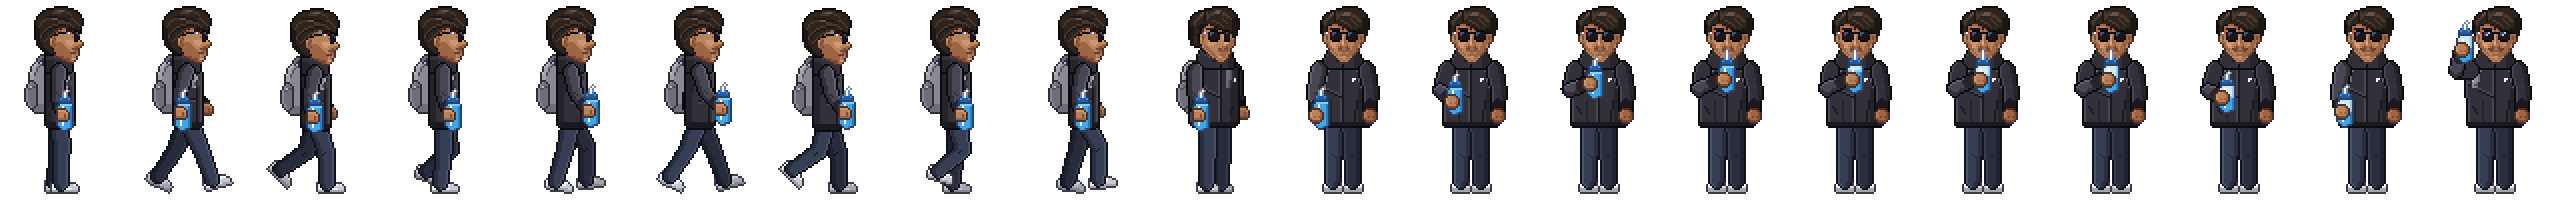
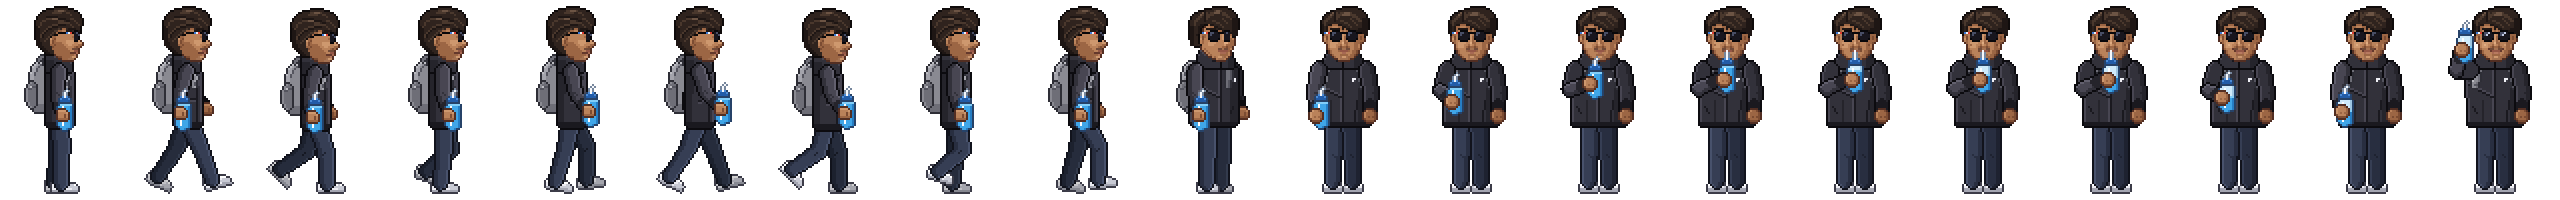
Give the buddy an oval face
Rounder jaw and a softer, rounded chin in the front, side and
three-quarter views, instead of the long V shape.

diff --git a/tools/make_character.py b/tools/make_character.py
@@ -235,8 +235,8 @@ def px(points, c):
 
 SIDE_SKIN = [R(y, a, b) for y, a, b in [
     (13, 31, 36), (14, 30, 37), (15, 29, 37), (16, 28, 38), (17, 28, 38), (18, 26, 37), (19, 25, 38),
-    (20, 25, 39), (21, 25, 40), (22, 25, 40), (23, 26, 39), (24, 27, 38), (25, 27, 38), (26, 28, 38),
-    (27, 28, 38), (28, 29, 37), (29, 31, 37), (30, 33, 36)]]
+    (20, 25, 39), (21, 25, 40), (22, 25, 40), (23, 26, 39), (24, 26, 38), (25, 27, 38), (26, 27, 38),
+    (27, 28, 37), (28, 29, 37), (29, 31, 36)]]
 
 # Straight, slicked hair. The part is on this side (his right): below it the hair is combed
 # smooth back towards the ear, above it the big side rises and sweeps over, its ends falling
@@ -277,8 +277,7 @@ SIDE_DETAIL = (
         R(23, 26, 26, "k"), R(20, 25, 25, "S"), R(21, 25, 25, "S"),
         # face: shade behind the cheekbone and along the jaw, light on the cheekbone and the nose
         R(21, 28, 30, "s"), R(22, 28, 31, "s"), R(23, 27, 32, "s"), R(24, 27, 33, "s"), R(25, 27, 34, "s"),
-        R(26, 28, 35, "s"), R(27, 28, 35, "s"), R(28, 29, 35, "s"), R(29, 31, 34, "k"), R(30, 33, 34, "k"),
-        R(28, 29, 31, "k"),
+        R(26, 28, 35, "s"), R(27, 28, 35, "s"), R(28, 29, 35, "s"), R(29, 31, 34, "s"), R(28, 29, 30, "k"),
         R(20, 33, 36, "L"), R(21, 33, 36, "L"), R(22, 34, 35, "L"), R(20, 39, 39, "L"), R(21, 39, 40, "L"),
         R(19, 37, 38, "L"), R(18, 36, 36, "s"),
         # brow over the lens
@@ -286,8 +285,8 @@ SIDE_DETAIL = (
         # nose: nostril and the shadow under it
         R(23, 38, 38, "k"), R(22, 39, 40, "s"), R(23, 39, 39, "s"), R(23, 37, 37, "s"),
         # moustache, lips (fuller lower lip), chin with a little stubble
-        R(24, 36, 38, "m"), R(25, 37, 38, "U"), R(26, 35, 37, "M"), R(26, 38, 38, "W"), R(27, 37, 37, "W"),
-        R(27, 38, 38, "w"), R(28, 37, 37, "s"), R(29, 36, 37, "L"), R(29, 35, 35, "n"), R(30, 35, 36, "n"),
+        R(24, 36, 38, "m"), R(25, 37, 38, "U"), R(26, 35, 37, "M"), R(26, 38, 38, "W"), R(27, 36, 36, "s"),
+        R(27, 37, 37, "w"), R(28, 36, 37, "L"), R(28, 35, 35, "n"), R(29, 34, 36, "n"),
         # shades: the lens in front of the eye, the arm back to the ear with blue, white and red
         R(16, 29, 36, "F"), R(17, 28, 28, "F"), R(16, 33, 33, "B"), R(16, 34, 34, "V"), R(16, 35, 35, "R"),
         R(15, 37, 38, "F"), R(16, 37, 39, "G"), R(17, 37, 39, "G"), R(18, 37, 39, "G"), R(19, 37, 39, "G"),
@@ -521,8 +520,8 @@ def mirror(pts):
 
 FRONT_SKIN = [R(y, a, b) for y, a, b in [
     (11, 27, 36), (12, 25, 38), (13, 24, 39), (14, 24, 39), (15, 24, 39), (16, 24, 39), (17, 22, 41),
-    (18, 22, 41), (19, 22, 41), (20, 22, 41), (21, 23, 40), (22, 24, 39), (23, 24, 39), (24, 25, 38),
-    (25, 25, 38), (26, 26, 37), (27, 27, 36), (28, 28, 35), (29, 29, 34), (30, 30, 33)]]
+    (18, 22, 41), (19, 22, 41), (20, 22, 41), (21, 23, 40), (22, 24, 39), (23, 24, 39), (24, 24, 39),
+    (25, 25, 38), (26, 25, 38), (27, 26, 37), (28, 27, 36), (29, 29, 34)]]
 
 # Straight hair, slicked, with an 80/20 side part on his right (your left, x = 27): the small
 # side is combed down to the ear, the big side sweeps up and across, its ends falling over the
@@ -581,11 +580,11 @@ FRONT_FACE = [
     R(14, 25, 29, "d"), R(13, 24, 24, "s"), R(12, 26, 28, "s"),
     # light from the upper left: shadow down the right side of the face and the jaw
     R(17, 39, 39, "s"), R(18, 39, 39, "s"), R(19, 39, 39, "s"), R(20, 38, 39, "s"), R(21, 37, 39, "s"),
-    R(22, 37, 38, "s"), R(23, 36, 38, "s"), R(24, 36, 37, "s"), R(25, 35, 37, "s"), R(26, 34, 36, "s"),
-    R(27, 34, 35, "s"), R(28, 33, 34, "s"), R(29, 33, 33, "s"), R(24, 38, 38, "k"), R(25, 38, 38, "k"),
-    R(26, 37, 37, "k"), R(27, 36, 36, "k"),
-    R(21, 25, 28, "L"), R(22, 25, 27, "L"), R(21, 24, 24, "s"), R(22, 24, 24, "s"), R(23, 24, 25, "s"),
-    R(24, 25, 26, "s"), R(25, 26, 26, "s"), R(26, 27, 27, "s"), R(27, 28, 28, "s"), R(23, 26, 27, "L"),
+    R(22, 37, 38, "s"), R(23, 37, 38, "s"), R(24, 37, 39, "s"), R(25, 36, 38, "s"), R(26, 36, 38, "s"),
+    R(27, 35, 37, "s"), R(28, 34, 36, "s"), R(29, 33, 34, "s"), R(25, 38, 38, "k"), R(26, 38, 38, "k"),
+    R(27, 37, 37, "k"),
+    R(21, 25, 28, "L"), R(22, 25, 27, "L"), R(23, 25, 27, "L"), R(24, 24, 24, "s"), R(25, 25, 25, "s"),
+    R(26, 25, 25, "s"), R(27, 26, 26, "s"), R(28, 27, 27, "s"),
     # long straight nose
     R(17, 31, 31, "L"), R(18, 31, 31, "L"), R(19, 31, 31, "L"), R(20, 31, 31, "L"), R(18, 32, 32, "s"),
     R(19, 32, 32, "s"), R(20, 32, 32, "s"), R(21, 30, 30, "S"), R(21, 31, 31, "T"), R(21, 32, 33, "s"),
@@ -594,7 +593,7 @@ FRONT_FACE = [
     # thin moustache
     R(24, 29, 30, "m"), R(24, 31, 32, "n"), R(24, 33, 34, "m"),
     # chin with a little stubble
-    R(28, 31, 32, "L"), R(29, 30, 30, "n"), R(29, 31, 32, "S"), R(29, 33, 33, "n"), R(30, 31, 32, "n"),
+    R(28, 31, 32, "L"), R(28, 30, 30, "n"), R(28, 33, 33, "n"), R(29, 30, 33, "n"),
     # shades: big round lenses in a thin frame, the bridge, and the temple on his right side
     # with its blue, white and red stripes
     R(15, 26, 29, "F"), R(16, 25, 30, "G"), R(17, 25, 30, "G"), R(18, 25, 30, "G"), R(19, 25, 30, "G"),
@@ -766,8 +765,8 @@ def front_frame(arm=FRONT_IDLE_ARM, level=1.0, mouth="cool", bubbles=(), glint=F
 
 TURN_SKIN = [R(y, a, b) for y, a, b in [
     (12, 28, 36), (13, 27, 37), (14, 26, 38), (15, 26, 38), (16, 26, 39), (17, 24, 39), (18, 24, 39),
-    (19, 24, 40), (20, 24, 40), (21, 24, 40), (22, 25, 40), (23, 25, 39), (24, 26, 38), (25, 27, 38),
-    (26, 28, 38), (27, 29, 37), (28, 30, 37), (29, 32, 36), (30, 33, 35)]]
+    (19, 24, 40), (20, 24, 40), (21, 24, 40), (22, 25, 40), (23, 25, 39), (24, 25, 39), (25, 26, 38),
+    (26, 27, 38), (27, 28, 38), (28, 30, 37), (29, 32, 36)]]
 
 TURN_HAIR = [R(y, a, b, "h") for y, a, b in [
     (4, 30, 37), (5, 26, 39), (6, 23, 40), (7, 21, 41), (8, 20, 41), (9, 20, 42), (10, 19, 42), (11, 19, 42),
@@ -797,15 +796,15 @@ TURN_DETAIL = (
         # face: lit near side, shade on the far cheek, jawline from under the ear to the chin
         R(21, 28, 31, "L"), R(22, 28, 30, "L"), R(19, 39, 39, "s"), R(20, 39, 40, "s"), R(21, 39, 40, "s"),
         R(22, 38, 40, "s"), R(23, 37, 39, "s"), R(24, 37, 38, "s"), R(25, 37, 38, "s"), R(26, 36, 37, "s"),
-        R(27, 35, 36, "s"), R(28, 35, 36, "s"), R(22, 26, 26, "s"), R(23, 26, 27, "s"), R(24, 27, 28, "s"),
-        R(25, 28, 29, "s"), R(26, 29, 30, "s"), R(27, 30, 31, "s"), R(28, 31, 32, "s"),
+        R(27, 36, 37, "s"), R(28, 35, 36, "s"), R(24, 26, 26, "s"), R(25, 27, 27, "s"), R(26, 28, 28, "s"),
+        R(27, 29, 29, "s"), R(28, 31, 31, "s"),
         # long nose, pointing right
         R(17, 35, 35, "L"), R(18, 35, 35, "L"), R(19, 35, 36, "L"), R(20, 36, 36, "L"), R(21, 36, 37, "T"),
         R(21, 38, 38, "S"), R(20, 37, 37, "s"), R(22, 36, 36, "L"), R(22, 37, 38, "s"), R(23, 37, 37, "k"),
         R(23, 35, 36, "s"), R(23, 38, 38, "s"),
         # moustache, lips, chin with stubble
         R(24, 33, 34, "m"), R(24, 35, 35, "n"), R(24, 36, 37, "m"), R(25, 33, 37, "U"), R(26, 34, 36, "W"),
-        R(27, 34, 36, "s"), R(28, 33, 34, "L"), R(29, 33, 34, "n"), R(30, 33, 35, "n"),
+        R(27, 34, 36, "s"), R(28, 33, 34, "L"), R(28, 35, 35, "n"), R(29, 33, 35, "n"),
         # shades: near lens full, far lens foreshortened, temple back to the ear
         R(15, 29, 32, "F"), R(16, 28, 33, "G"), R(17, 28, 33, "G"), R(18, 28, 33, "G"), R(19, 28, 33, "G"),
         R(20, 29, 32, "F"), R(16, 28, 28, "F"), R(19, 28, 28, "F"), R(16, 33, 33, "F"), R(19, 33, 33, "F"),

diff --git a/README.md b/README.md
@@ -27,7 +27,7 @@ Chrome shows "Read and change all your data on all websites" at install. That's 
 
 ## The character
 
-The buddy is a pixel portrait of ayush, drawn from a photo: straight, slicked dark hair with an 80/20 side part, big round shades with the blue, white and red temple, a long straight nose, a thin moustache, a fuller lower lip, a little stubble on a defined jaw, the black high-collar jacket with its logo patch, and a grey backpack on the back with both straps over the shoulders.
+The buddy is a pixel portrait of ayush, drawn from a photo: straight, slicked dark hair with an 80/20 side part, big round shades with the blue, white and red temple, a long straight nose, a thin moustache, a fuller lower lip, an oval face with a little stubble on the chin, the black high-collar jacket with its logo patch, and a grey backpack on the back with both straps over the shoulders.
 
 - **Walking:** side view, looking where it's going, with an 8-frame walk cycle (heel strike, knee bend, push-off) and arms swinging opposite the legs. The page moves it exactly one stride per step, so its feet don't slide.
 - **Stopping:** it turns through a three-quarter view to face you and makes eye contact.
